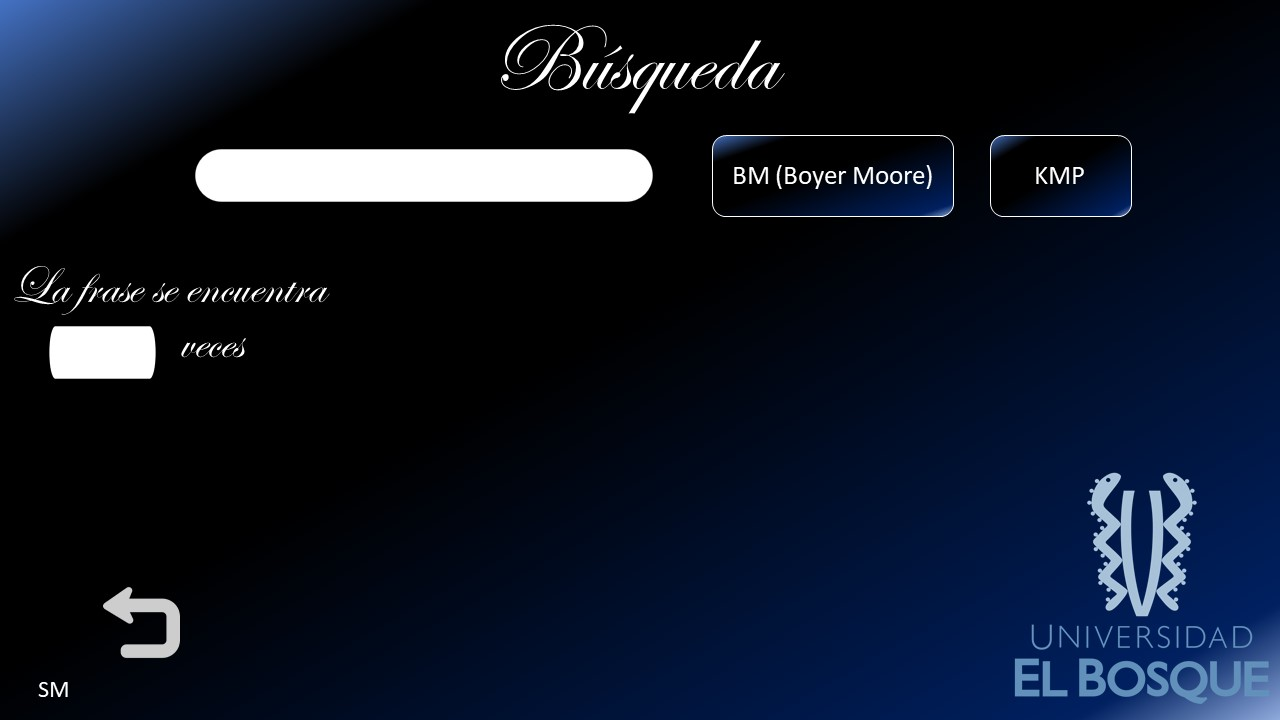
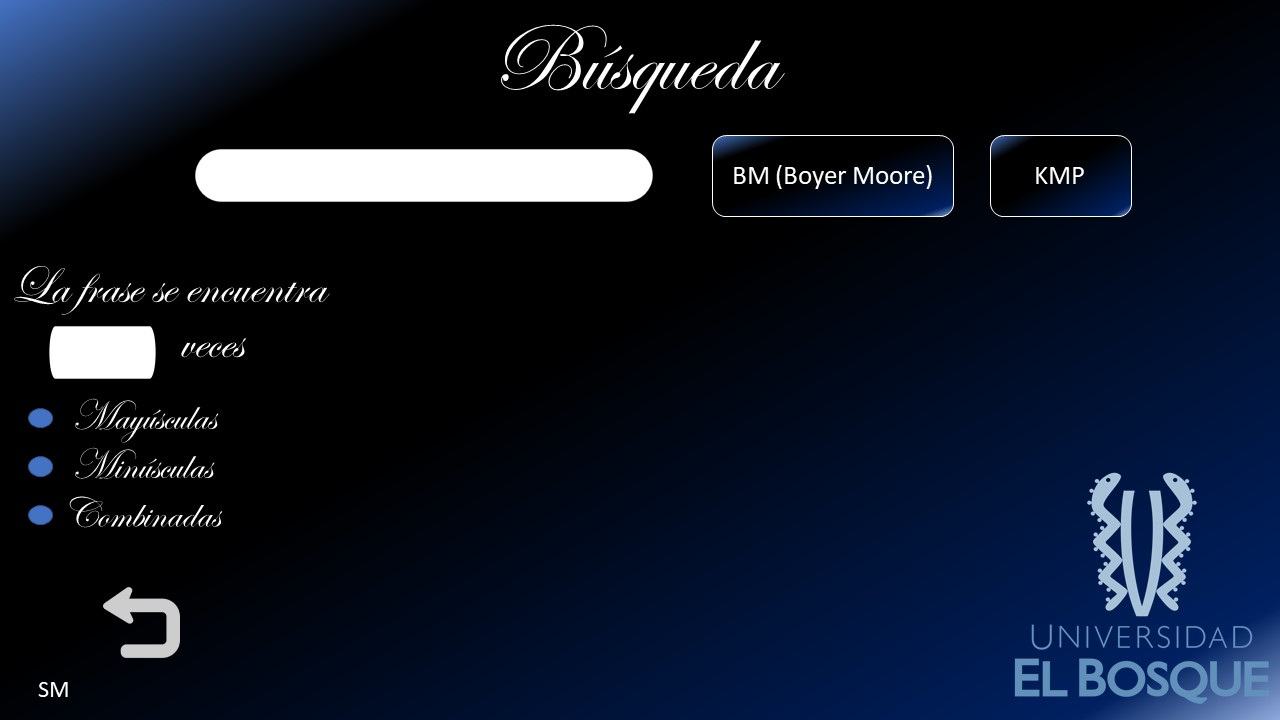
RadioButton Panel Buscar

Changed region(s): [[0.0, 0.55, 0.1875, 0.6722], [0.0, 0.7028, 0.1875, 0.7333]]

diff --git a/TallerAlgoritmos_CA_Corte2/src/co/edu/unbosque/view/PanelBuscar.java b/TallerAlgoritmos_CA_Corte2/src/co/edu/unbosque/view/PanelBuscar.java
@@ -8,6 +8,7 @@ import java.awt.Image;
 import javax.swing.ImageIcon;
 import javax.swing.JButton;
 import javax.swing.JPanel;
+import javax.swing.JRadioButton;
 import javax.swing.JScrollPane;
 import javax.swing.JTable;
 import javax.swing.JTextArea;
@@ -15,11 +16,13 @@ import javax.swing.table.DefaultTableModel;
 import javax.swing.table.TableColumnModel;
 
 public class PanelBuscar extends JPanel {
+	
 	CampoTexto campoTexto,campoTextoRepetidos;
 	private JButton botonBM;
 	private JButton botonKMP;
 	private JButton botonVolver;
 	private JTextArea tabla;
+	private JRadioButton rbtnMayuscula,rbtnMinuscula,rbtnCombinada;
 
 	private DefaultTableModel mod;
 
@@ -92,6 +95,22 @@ public class PanelBuscar extends JPanel {
 		campoTextoRepetidos.setEditable(false);
 		campoTextoRepetidos.setBounds(42, 266, 100, 50);
 		
+		// Caracteristicas de los radioboton Mayuscula
+		rbtnMayuscula = new JRadioButton();
+		rbtnMayuscula.setBorderPainted(false);
+		rbtnMayuscula.setContentAreaFilled(false);
+		
+		rbtnMayuscula.setBounds(26, 344, 15, 10);
+		// Caracteristicas de los radioboton Minuscula
+		rbtnMinuscula = new JRadioButton();
+		rbtnMinuscula.setBorderPainted(false);
+		rbtnMinuscula.setContentAreaFilled(false);
+		rbtnMinuscula.setBounds(26, 384, 15, 10);
+		// Caracteristicas de los radioboton Combinadas
+		rbtnCombinada = new JRadioButton();
+		rbtnCombinada.setBorderPainted(false);
+		rbtnCombinada.setContentAreaFilled(false);
+		rbtnCombinada.setBounds(26, 424, 15, 10);
 
 		// Agregamos los botones al panel
 		add(botonBM);
@@ -99,6 +118,9 @@ public class PanelBuscar extends JPanel {
 		add(botonVolver);
 		add(campoTexto);
 		add(campoTextoRepetidos);
+		add(rbtnMayuscula);
+		add(rbtnMinuscula);
+		add(rbtnCombinada);
 
 		add(scroll);
 	}
